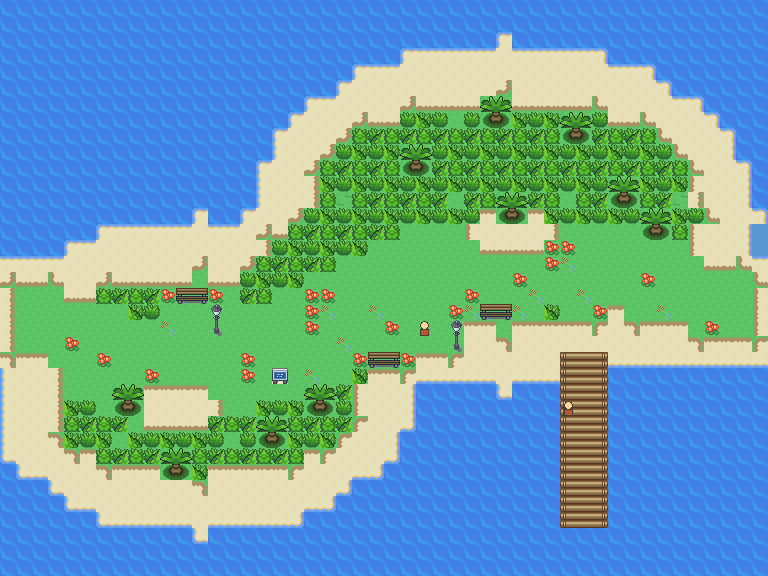
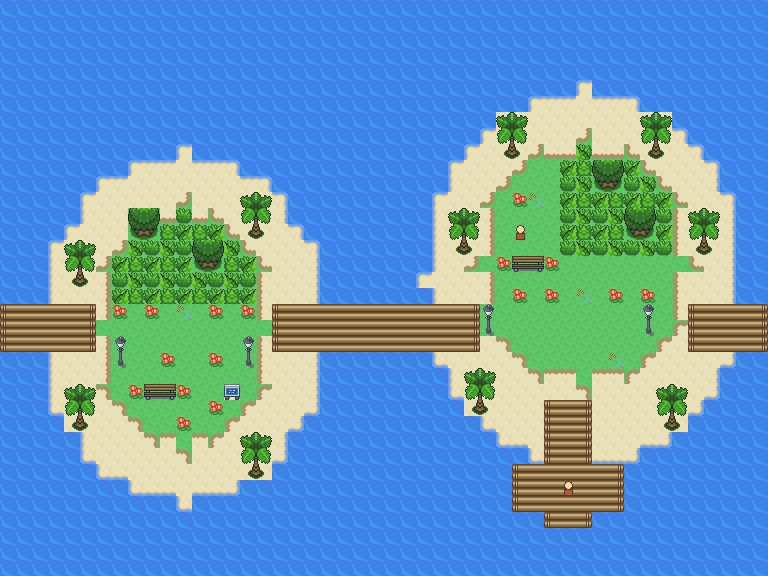
Rebuild Route 145 as twin tropical islands
Replace the previous island outline with two palm-covered islands, a sea-channel boardwalk, encounter groves, resting gardens and a T-shaped fishing pier. Retain the map dimensions, connections, encounter tables and NPC scripts; relocate the Hex Maniac to the east-island lookout and the fisherman to the pier.

Validation: ROM build, reachable exits and interactions, repeatable map generation and unchanged route links.

diff --git a/tools/brisk/polish_palm_cape.py b/tools/brisk/polish_palm_cape.py
@@ -1,51 +1,88 @@
 #!/usr/bin/env python3
-"""Apply the Palm Cape trail and Hex Maniac nook to the current Route 145.
-Never changes encounter tables, connections or the island outline.
+"""Rebuild Route 145 as two tropical islands linked by a scenic boardwalk.
+Retains the map size, connections, scripts, encounters, and existing NPC identities.
+Run explicitly from the repository root; normal map checks never rebuild it.
 """
-from pathlib import Path
 from orange_islands import *
-a=next(a for a in current_areas() if a.name=='Route145')
-# Preserve the island outline, encounter banks, pier, map links and existing rest spots.
-grasstiles={1,5,0x10,0xA,0xB,0xC,0xD,0xE5,0xE3,0xD5,0xD3,0xE4,0xD4,0xDD,0xDB}
-terrain=grasstiles|{SAND}
-green={(x,y) for y,row in enumerate(a.grid) for x,v in enumerate(row) if v&1023 in grasstiles|{0x14,0x15,0x24,0x25,0x22E,0x22F,0xF7,0xFF,3}}
-points=[(0,19),(10,22),(18,21),(27,17),(38,17),(47,19)]
-for (ax,ay),(bx,by) in zip(points,points[1:]):
- steps=max(abs(bx-ax),abs(by-ay))
- for i in range(steps+1):
-  x=round(ax+(bx-ax)*i/max(1,steps));y=round(ay+(by-ay)*i/max(1,steps))
-  for yy in range(y-2,y+3):
-   for xx in range(x-2,x+3):
-    if 0<=xx<a.w and 0<=yy<a.h and a.grid[yy][xx]&1023 not in {WATER,0x10C,0x10D,0x10E,0x11C,0x11D,0x11E,0x114,0x116,0x205,0x206,0x207}:green.add((xx,yy))
-for yy in range(17,23):
- for xx in range(9,16):green.add((xx,yy))
-for yy in range(17,23):
- for xx in range(21,29):
-  if a.grid[yy][xx]&1023 in terrain:green.add((xx,yy))
-for x,y in green:
- if a.grid[y][x]&1023 not in terrain:continue
- n,e,s,w=[(x+dx,y+dy) not in green for dx,dy in [(0,-1),(1,0),(0,1),(-1,0)]]
- tile=0xE5 if n and w else 0xE3 if n and e else 0xD5 if s and w else 0xD3 if s and e else 0xE4 if n else 0xD4 if s else 0xDD if w else 0xDB if e else GRASS
- if a.grid[y][x]&1023 not in {0xA,0xB,0xC,0xD}:a.grid[y][x]=block(tile)
-# Native palms and tropical shrubs break up the open grass/sand, as on 144.
-for x,y in [(7,24),(19,24),(31,12),(40,13),(43,21)]:
- if all(a.grid[y+dy][x+dx]&1023 in terrain for dy in range(2) for dx in range(2)):
-  a.stamp(x,y,[[0x14,0x15],[0x24,0x25]],True)
-for x,y in [(10,20),(15,22),(19,20),(23,19),(28,19),(32,17),(36,18),(40,17),(25,22),(22,22)]:
- if a.grid[y][x]&1023==GRASS:a.grid[y][x]=block(5 if (x+y)%2 else 0x10)
-# New resting nook and a lamp beside the main trail.
-a.stamp(23,22,[[0x22E,0x22F]],True)
-a.grid[20][28]=block(0xF7);a.grid[21][28]=block(0xFF,True)
-a.grid[20][26]=block(GRASS)
-# A real sign tile (tile 4 is flowers in this tileset).
-a.grid[23][17]=block(3,True)
-if not any(o.get('script')=='Route145_EventScript_HexManiac' for o in a.meta['object_events']):
- a.meta['object_events'].append(person('HEX_MANIAC',26,20,'Route145_EventScript_HexManiac'))
-# Small flower groups mark the winding trail and flank each resting bench.
-for x,y in [(4,21),(6,22),(9,23),(12,24),(15,23),(19,23),(21,21),
-            (24,20),(29,18),(33,18),(37,19),(41,19),(44,20),
-            (10,18),(13,18),(29,19),(32,19),(22,22),(25,22),
-            (19,18),(20,18),(19,19),(20,19),(34,15),(35,15),(34,16),(35,16)]:
- if a.grid[y][x]&1023 in (GRASS,5,0x10):a.grid[y][x]=block(5 if (x+y)%3 else 0x10)
-write_words('data/layouts/Route145/map.bin',[v for row in a.grid for v in row]);save('data/maps/Route145/map.json',a.meta)
-audit_current([a]);render(current_areas())
+
+
+def rebuild():
+    old = next(a for a in current_areas() if a.name == 'Route145')
+    assert (old.w, old.h) == (48, 36), 'Review the design before resizing Palm Cape.'
+    a = Area(old.name, old.w, old.h)
+    a.meta = old.meta
+    ellipse(a.land, 11, 20, 9, 11)
+    ellipse(a.land, 36, 17, 10, 12)
+    for y in range(a.h):
+        for x in range(a.w):
+            if x < 3 or x > 45:
+                a.land[y][x] = False
+    ellipse(a.green, 11, 20, 6, 8)
+    ellipse(a.green, 36, 16, 7, 8)
+    for y in range(a.h):
+        for x in range(a.w):
+            a.green[y][x] &= a.land[y][x]
+    a.ground()
+
+    # Three clear boardwalk lanes line up with Orange City's east approach
+    # and Route 146's west shore. The middle bridge crosses open water.
+    a.boardwalk(0, 19, 6, 3)
+    a.boardwalk(17, 19, 13, 3)
+    a.boardwalk(43, 19, 5, 3)
+    a.boardwalk(34, 25, 3, 8)
+    a.boardwalk(32, 29, 7, 3)
+
+    # Encounter groves leave a broad central promenade and several quiet
+    # clearings. Native grass quadrants retain the normal encounter behavior.
+    for y in range(a.h):
+        for x in range(a.w):
+            west = 6 <= x <= 15 and 13 <= y <= 18
+            east = 35 <= x <= 41 and 9 <= y <= 15
+            if (west or east) and a.grid[y][x] & 1023 == GRASS:
+                a.grid[y][x] = block([[0xA, 0xB], [0xC, 0xD]][y % 2][x % 2])
+
+    # Actual three-tile-high island palms, matching the beach palms on 144.
+    palms = [(4, 15), (7, 10), (15, 12), (4, 24), (15, 27),
+             (28, 13), (31, 7), (40, 7), (43, 13), (41, 24), (29, 23)]
+    for x, y in palms:
+        if all(a.land[y+dy][x+dx] for dy in range(3) for dx in range(2)):
+            a.stamp(x, y, [[0x12, 0x13], [0x1A, 0x1B], [0x22, 0x23]])
+    for x, y in [(8, 13), (12, 15), (37, 10), (39, 13)]:
+        a.stamp(x, y, [[0x1E, 0x1F], [0x26, 0x27]])
+
+    # Resting garden on the west island and the Hex Maniac's east lookout.
+    for x, y in [(9, 24), (32, 16)]:
+        a.stamp(x, y, [[0x22E, 0x22F]])
+        for xx in (x-1, x+2):
+            a.grid[y][xx] = block(5)
+    for x, y in [(7, 22), (15, 22), (30, 20), (40, 20)]:
+        a.grid[y-1][x] = block(0xF7)
+        a.grid[y][x] = block(0xFF, True)
+    for x, y in [(7, 19), (9, 19), (11, 19), (13, 19), (15, 19),
+                 (7, 22), (10, 22), (13, 22), (16, 22),
+                 (8, 26), (11, 26), (13, 25),
+                 (30, 18), (32, 18), (34, 18), (36, 18), (38, 18), (40, 18),
+                 (30, 22), (32, 22), (38, 22), (40, 22), (32, 12), (33, 12)]:
+        if a.grid[y][x] & 1023 in (GRASS, 5, 0x10):
+            a.grid[y][x] = block(5 if (x+y) % 3 else 0x10)
+
+    for event in a.meta['bg_events']:
+        if event.get('script') == 'Route145_EventScript_RouteSign':
+            event['x'], event['y'] = 14, 24
+            a.grid[24][14] = block(3, True)
+    for obj in a.meta['object_events']:
+        if obj.get('script') == 'Route145_EventScript_HexManiac':
+            obj['x'], obj['y'] = 32, 14
+        elif obj.get('script') == 'Route145_EventScript_Cape':
+            obj['x'], obj['y'] = 35, 30
+        a.grid[obj['y']][obj['x']] = block(
+            a.grid[obj['y']][obj['x']] & 1023, False)
+
+    audit_palm_cape(a)
+    write_words('data/layouts/Route145/map.bin', [v for row in a.grid for v in row])
+    save('data/maps/Route145/map.json', a.meta)
+    render(current_areas())
+
+
+if __name__ == '__main__':
+    rebuild()

diff --git a/docs/maps/orange-islands.md b/docs/maps/orange-islands.md
@@ -8,7 +8,7 @@ Orange City, and Routes 149–150. Routes 147–148 form the forest approach.
 | Route 143 | 63 × 36 | Rock-lined sea passage and grass island |
 | Route 144 | 48 × 46 | Two islands linked by a boardwalk |
 | Orange City | 48 × 78 | Center, Mega Stone mart, two homes, town square and harbor |
-| Route 145 | 48 × 36 | Coastal trail and fishing pier |
+| Route 145 | 48 × 36 | Twin islands, channel bridge, resting gardens and fishing pier |
 | Route 146 | 40 × 44 | Crescent island, lookout and Dynamax Adventure cave |
 | Route 147 | 29 × 16 | Forest approach from Route 141 |
 | Route 148 | 29 × 16 | Forest clearing and teleporter to Route 149 |
@@ -46,10 +46,15 @@ wherever they are placed with these tilesets. Lamps, flowers and rest areas
 match the player's Route 144 design. Current dimensions, building entrances,
 connection offsets and healing locations are retained by the cleanup tool.
 
-Route 145 now has a flower-lined grass trail, palms, a third bench and a Hex
-Maniac describing Lugia and the legendary birds' rescue of endangered species
-about twenty years ago. The original island outline, fishing pier, connections
-and encounter tables are retained.
+Route 145 is rebuilt as two separate palm-covered islands joined by a boardwalk
+over an open sea channel. Flower-lined gardens and two healing benches border
+the encounter groves, while a T-shaped fishing pier extends from the eastern
+island. The Hex Maniac overlooks the channel and describes Lugia and the
+legendary birds' rescue of endangered species about twenty years ago. The map
+size, route connections, scripts and encounter tables are retained.
+
+Run `python tools/brisk/polish_palm_cape.py` explicitly to recreate this layout;
+normal checking/rendering never rebuilds it.
 
 `ISLAND SHINY` on Options page 5 defaults to ON: wild encounters on Routes
 143–146, 149–150 and in Orange City use a base 1/50 shiny roll. OFF restores the
